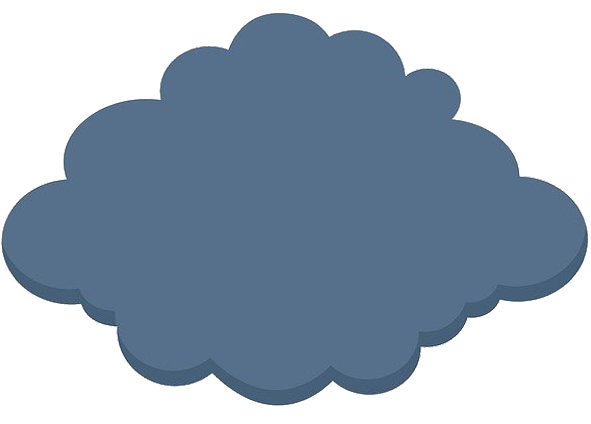
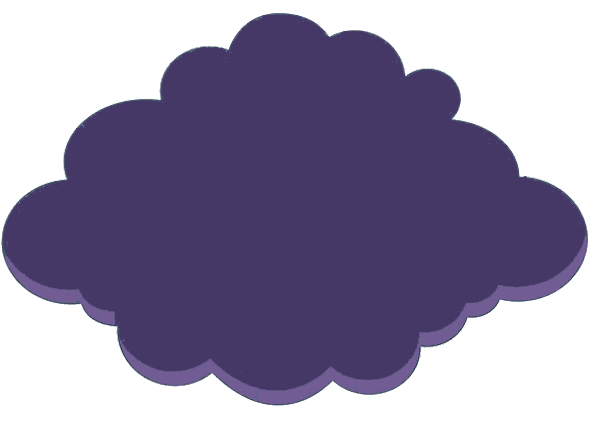
up cloud

diff --git a/index.html b/index.html
@@ -471,11 +471,11 @@
             height: 8%;
             left:200%;
             position: absolute;
-            animation: cloud 20s linear 2s infinite alternate; 
+            animation: cloud 20s linear 2s infinite; 
           }
         @keyframes cloud {
             0%   {left:200%;}
-            100%  {left:450%}
+            100%  {left:490%}
           }
           .cloud1 {
             z-index: 1;
@@ -483,10 +483,10 @@
             height: 8%;
             left:450%;
             position: absolute;
-            animation: cloud1 20s linear 2s infinite alternate; 
+            animation: cloud1 20s linear 2s infinite; 
           }
         @keyframes cloud1 {
-            0%   {left:450%;}
+            0%   {left:490%;}
             100%  {left:200%}
           }
           .cloud2 {
@@ -495,42 +495,44 @@
             height: 8%;
             left:250%;
             position: absolute;
-            animation: cloud2 20s linear 2s infinite alternate; 
+            animation: cloud2 30s linear 2s infinite ; 
           }
         @keyframes cloud2 {
-            0%   {left:250%;}
-            25% {left: 200%;}
-            75%  {left:450%}
-            100% {left: 250%;}
+          0% {left:250%;}
+            40% {left:490%;}
+            90%  {left:200%}
+            100% {left:250%}
           }
-          
+
           .cloud3 {
             z-index: 1;
             width: 10%;
             height: 8%;
             left:300%;
             position: absolute;
-            animation: cloud3 25s linear 2s infinite alternate; 
+            animation: cloud3 30s linear 2s infinite ; 
           }
         @keyframes cloud3 {
-            0%   {left: 300%;}
-            20% {left: 450%;}
-            80%  {left:200%}
-            100% {left: 300%;}
+            0% {left:300%;}
+            15% {left:200%;}
+            75%  {left:490%}
+            100% {left:300%}
+          
           }
+
           .cloud4 {
             z-index: 1;
             width: 10%;
             height: 8%;
             left:350%;
             position: absolute;
-            animation: cloud4 25s linear 2s infinite alternate; 
+            animation: cloud4 35s linear 3s infinite ; 
           }
         @keyframes cloud4 {
-            0%   {left: 350%;}
-            20% {left: 450%;}
-            80%  {left:200%}
-            100% {left: 350%;}
+          0% {left:350%;}
+            25% {left:490%;}
+            75%  {left:200%}
+            100% {left:350%}
           }
 .sprite {
   width: 460px;
@@ -835,11 +837,11 @@ img{
           </div>
           <!-- หน้า6คนรวย -->
           <div class="slide six" id="six">
-            <img class="cloud" style="top: 106%;" src="img/cloud.png" />
+            <img class="cloud" style="top: 106%;" src="img/cloud2.png" />
             <img class="cloud1" style="top: 108%;" src="img/cloud2.png" />
-            <img class="cloud2" style="top: 102%;" src="img/cloud.png" />
+            <img class="cloud2" style="top: 102%;" src="img/cloud2.png" />
             <img class="cloud3" style="top: 110%;" src="img/cloud2.png" />
-            <img class="cloud4" style="top: 115%;" src="img/cloud.png" />
+            <img class="cloud4" style="top: 115%;" src="img/cloud2.png" />
 
             <a href="#five" style="z-index: 5; position: relative; right: -5%;top: 10px; ">
               <div class="wB">
@@ -891,11 +893,11 @@ img{
 
           <div class="slide three" id="three">
             
-            <img class="cloud" style="top: 2%;" src="img/cloud.png" />
+            <img class="cloud" style="top: 2%;" src="img/cloud1.png" />
             <img class="cloud1" style="top: 6%;" src="img/cloud1.png" />
-            <img class="cloud2" style="top: 8%;" src="img/cloud.png" />
+            <img class="cloud2" style="top: 8%;" src="img/cloud1.png" />
             <img class="cloud3" style="top: 10%;" src="img/cloud1.png" />
-            <img class="cloud4" style="top: 4%;" src="img/cloud.png" />
+            <img class="cloud4" style="top: 4%;" src="img/cloud1.png" />
             
             <div class="star" style="width: 50vh; height: 25vh;position: absolute;
             right: -205%;" >
